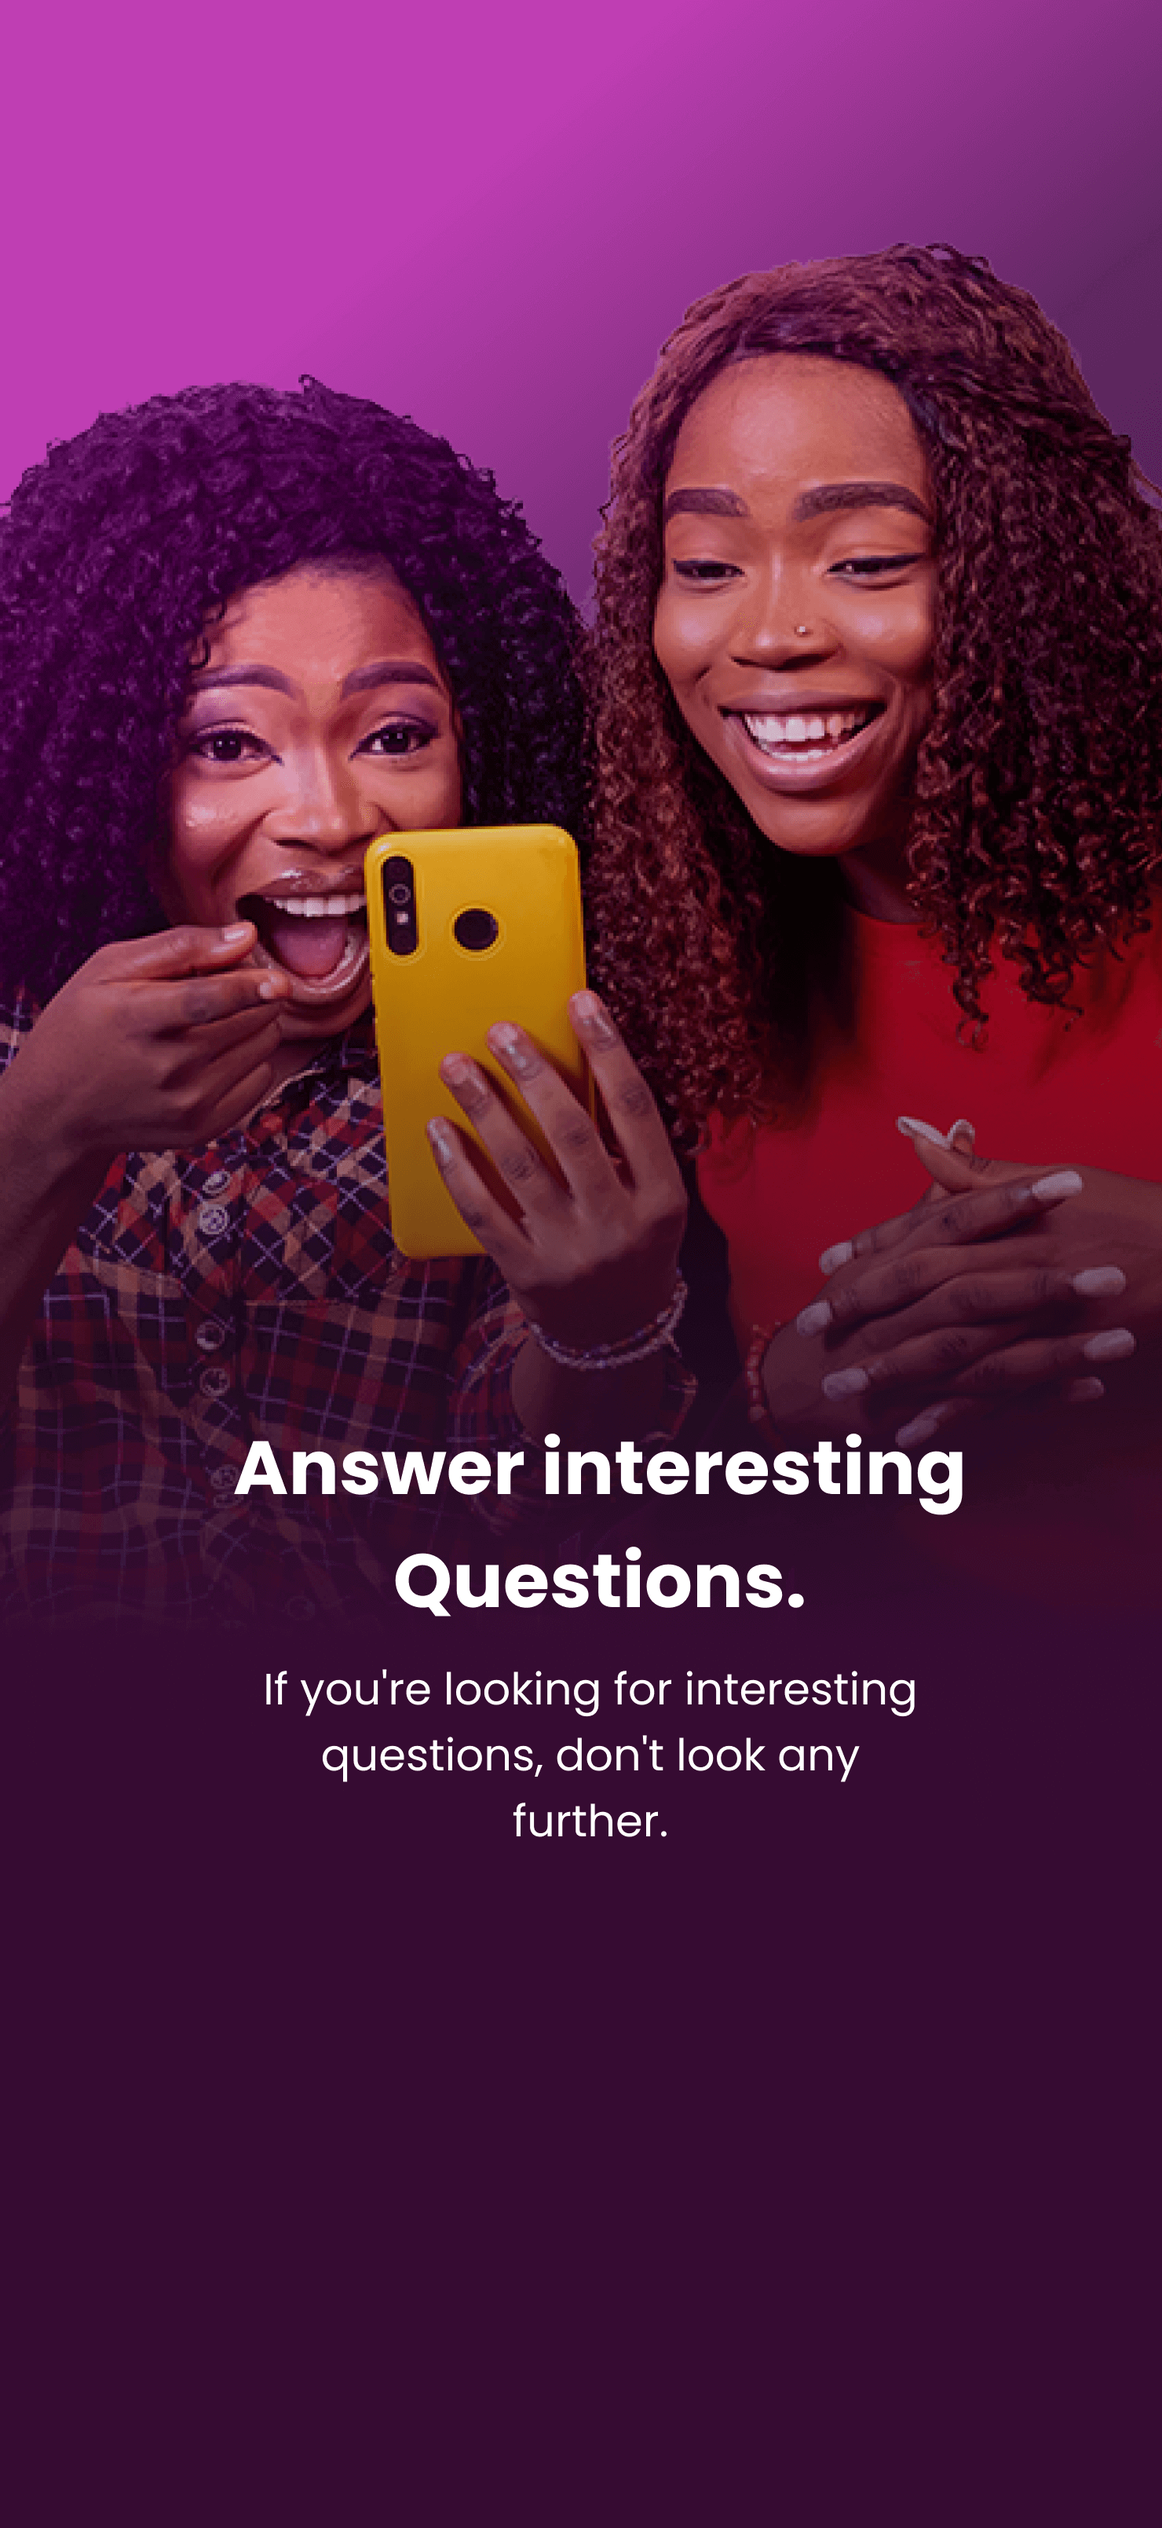
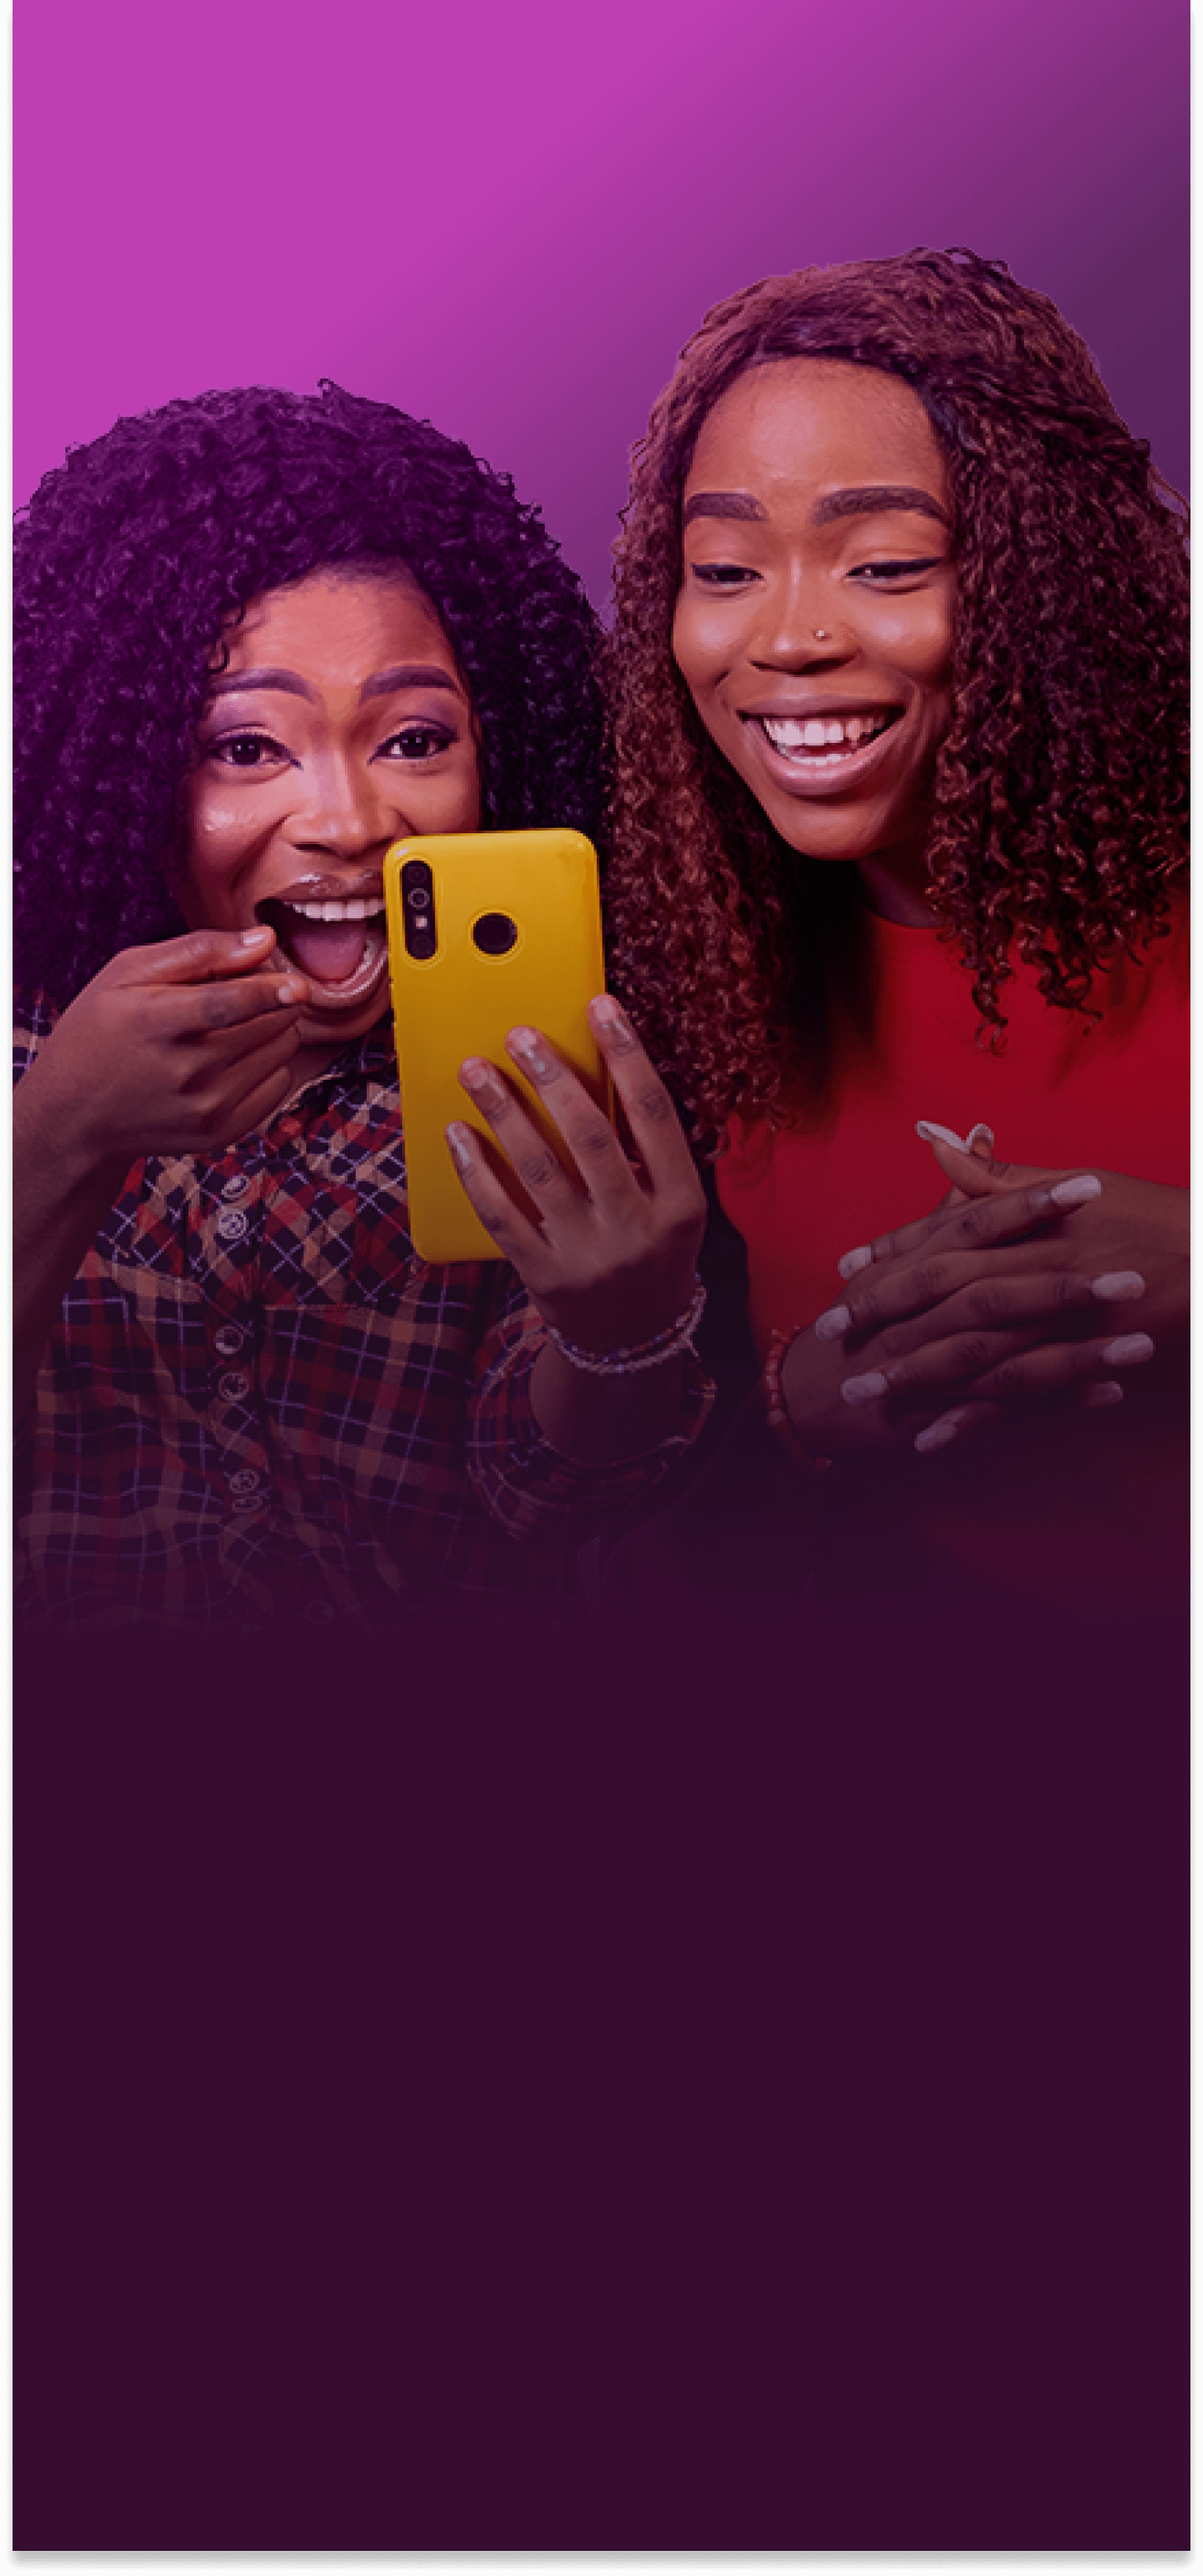
auth done

Changed region(s): [[0.0, 0.0, 1.0, 1.0], [0.2176, 0.6522, 0.2486, 0.6832]]

diff --git a/lib/screens/auth/onboarding_view.dart b/lib/screens/auth/onboarding_view.dart
@@ -51,25 +51,25 @@ class _OnboardingViewState extends State<OnboardingView> {
               child: Align(
                 alignment: Alignment.bottomCenter,
                 child: Padding(
-                  padding: EdgeInsets.only(bottom: 80.h, right: 30.h, left: 30.h),
+                  padding:
+                      EdgeInsets.only(bottom: 80.h, right: 30.h, left: 30.h),
                   child: Column(
                     mainAxisSize: MainAxisSize.min,
                     mainAxisAlignment: MainAxisAlignment.center,
                     children: [
-                      _index == 2
+                      _index == 0
                           ? Column(
                               mainAxisSize: MainAxisSize.min,
                               mainAxisAlignment: MainAxisAlignment.center,
                               children: [
-                                regularText(
-                                  'Learn More',
-                                  fontSize: 24.sp,
-                                  fontWeight: FontWeight.w700,
-                                  color: AppColors.white,
-                                ),
+                                regularText('Answer interesting\nQuestions',
+                                    fontSize: 24.sp,
+                                    fontWeight: FontWeight.w700,
+                                    color: AppColors.white,
+                                    textAlign: TextAlign.center),
                                 SizedBox(height: 20.h),
                                 regularText(
-                                  'Just like food nourishes our\nbodies, information and\ncontinued learning nourishes\nour minds',
+                                  'If you\'re looking for interesting\nquestions, don\'t look any\nfurther.',
                                   fontSize: 14.sp,
                                   textAlign: TextAlign.center,
                                   fontWeight: FontWeight.w400,
@@ -77,32 +77,85 @@ class _OnboardingViewState extends State<OnboardingView> {
                                 ),
                                 SizedBox(height: 30.h),
                                 buttonWithBorder(
-                                  'Sign up',
+                                  "Let’s Combat!",
                                   height: 60.h,
                                   onTap: () {
-                                    navigateReplacement(
-                                        context, SignupScreen());
+                                    controller.nextPage(
+                                        duration: Duration(milliseconds: 800),
+                                        curve: Curves.easeIn);
                                   },
-                                ),
-                                SizedBox(height: 20.h),
-                                buttonWithBorder(
-                                  'Sign in',
-                                  height: 60.h,
-                                  onTap: () {
-                                    navigateReplacement(context, LoginScreen());
-                                  },
-                                ),
+                                )
                               ],
                             )
-                          : buttonWithBorder(
-                              _index == 0 ? "Let’s Combat!" : 'Next',
-                              height: 60.h,
-                              onTap: () {
-                                controller.nextPage(
-                                    duration: Duration(milliseconds: 800),
-                                    curve: Curves.easeIn);
-                              },
-                            ),
+                          : _index == 1
+                              ? Column(
+                                  mainAxisSize: MainAxisSize.min,
+                                  mainAxisAlignment: MainAxisAlignment.center,
+                                  children: [
+                                    regularText('Win Prizes',
+                                        fontSize: 24.sp,
+                                        fontWeight: FontWeight.w700,
+                                        color: AppColors.white,
+                                        textAlign: TextAlign.center),
+                                    SizedBox(height: 20.h),
+                                    regularText(
+                                      'Earn real cash by answering all\nquestions correctly\n',
+                                      fontSize: 14.sp,
+                                      textAlign: TextAlign.center,
+                                      fontWeight: FontWeight.w400,
+                                      color: AppColors.white,
+                                    ),
+                                    SizedBox(height: 30.h),
+                                    buttonWithBorder(
+                                      "Let’s Combat!",
+                                      height: 60.h,
+                                      onTap: () {
+                                        controller.nextPage(
+                                            duration:
+                                                Duration(milliseconds: 800),
+                                            curve: Curves.easeIn);
+                                      },
+                                    )
+                                  ],
+                                )
+                              : Column(
+                                  mainAxisSize: MainAxisSize.min,
+                                  mainAxisAlignment: MainAxisAlignment.center,
+                                  children: [
+                                    regularText(
+                                      'Learn More',
+                                      fontSize: 24.sp,
+                                      fontWeight: FontWeight.w700,
+                                      color: AppColors.white,
+                                    ),
+                                    SizedBox(height: 20.h),
+                                    regularText(
+                                      'Just like food nourishes our\nbodies, information and\ncontinued learning nourishes\nour minds',
+                                      fontSize: 14.sp,
+                                      textAlign: TextAlign.center,
+                                      fontWeight: FontWeight.w400,
+                                      color: AppColors.white,
+                                    ),
+                                    SizedBox(height: 30.h),
+                                    buttonWithBorder(
+                                      'Sign up',
+                                      height: 60.h,
+                                      onTap: () {
+                                        navigateReplacement(
+                                            context, SignupScreen());
+                                      },
+                                    ),
+                                    SizedBox(height: 20.h),
+                                    buttonWithBorder(
+                                      'Sign in',
+                                      height: 60.h,
+                                      onTap: () {
+                                        navigateReplacement(
+                                            context, LoginScreen());
+                                      },
+                                    ),
+                                  ],
+                                ),
                     ],
                   ),
                 ),

diff --git a/lib/screens/general/home_view.dart b/lib/screens/general/home_view.dart
@@ -2,6 +2,7 @@ import 'dart:async';
 import 'dart:ui';
 import 'package:cloud_firestore/cloud_firestore.dart';
 import 'package:flutter/material.dart';
+import 'package:logger/logger.dart';
 import 'package:mms_app/app/colors.dart';
 import 'package:mms_app/app/size_config/config.dart';
 import 'package:mms_app/app/size_config/extensions.dart';
@@ -56,6 +57,7 @@ class _HomeViewState extends State<HomeView> {
         .listen((event) {
       questions.clear();
       event.docs.forEach((element) {
+        Logger().d(element.data());
         questions.add(QuestionModel.fromJson(element.data()));
         controllers.add(TextEditingController());
         //  firestore.collection('Questions').doc(element.id).delete();
@@ -164,12 +166,8 @@ class _HomeViewState extends State<HomeView> {
                                   itemBuilder: (context, index) {
                                     return item(index);
                                   }),
-                          if (questions.any((element) =>
-                              Utils.getDate.hour <
-                              (int.tryParse(element?.scheduledAt
-                                      ?.split(':')
-                                      ?.first) ??
-                                  Utils.getDate.hour)))
+                          if (questions.any(
+                              (element) => timeChecker(element.scheduledAt)))
                             Container(
                               padding: EdgeInsets.all(30.h),
                               margin: EdgeInsets.only(bottom: 20.h),
@@ -179,12 +177,14 @@ class _HomeViewState extends State<HomeView> {
                               child: Row(
                                 mainAxisAlignment: MainAxisAlignment.center,
                                 children: [
-                                  regularText(
-                                    '\nSome questions are not yet live, check back!\n',
-                                    fontSize: 15.sp,
-                                    textAlign: TextAlign.center,
-                                    color: AppColors.black,
-                                    fontWeight: FontWeight.w600,
+                                  Expanded(
+                                    child: regularText(
+                                      '\nSome questions are not yet live, check back!\n',
+                                      fontSize: 15.sp,
+                                      textAlign: TextAlign.center,
+                                      color: AppColors.black,
+                                      fontWeight: FontWeight.w600,
+                                    ),
                                   ),
                                 ],
                               ),
@@ -204,16 +204,40 @@ class _HomeViewState extends State<HomeView> {
 
   List<TextEditingController> controllers = [];
 
+  bool timeChecker(String a) {
+    if (a != null && a != 'empty') {
+      print(a);
+      int hour = int.tryParse(a.split(':').first);
+
+      int minute = int.tryParse(a.split(':')[1]);
+
+      if (hour >= Utils.getDate.hour && minute >= Utils.getDate.minute) {
+        return true;
+      } else {
+        return false;
+      }
+    } else {
+      return false;
+    }
+  }
+
   Widget item(int index) {
     //   Logger().d(TimeOfDay.now().minute);
     QuestionModel model = questions[index];
     bool answered = answers.any((element) => element.id == model.id);
-    int hour = int.tryParse(model?.scheduledAt?.split(':')?.first) ??
-        Utils.getDate.hour;
-    //  int min = int.tryParse( model.scheduledAt.split(':')[1]);
-    if (Utils.getDate.hour < hour) {
-      return SizedBox();
+    if (model.scheduledAt != null && model?.scheduledAt != 'empty') {
+      int hour = int.tryParse(model.scheduledAt.split(':').first);
+
+      int minute = int.tryParse(model.scheduledAt.split(':')[1]);
+
+      print(
+          'value of ${model.id} is : ${Utils.getDate.hour} $hour , ${Utils.getDate.minute}, $minute');
+
+      if (hour >= Utils.getDate.hour && minute >= Utils.getDate.minute) {
+        return SizedBox();
+      }
     }
+
     return Container(
       padding: EdgeInsets.all(20.h),
       margin: EdgeInsets.only(bottom: 20.h),
@@ -270,7 +294,11 @@ class _HomeViewState extends State<HomeView> {
                           'answer', (value) => controllers[index].text.trim());
                       data.putIfAbsent('name', () => AppCache.getUser.name);
                       data.update('uid', (value) => uid);
-                      data.update('last_time_won', (value) => AppCache.getUser.lastTimeWon);
+                      data.update(
+                        'last_time_won',
+                        (value) => AppCache.getUser?.lastTimeWon,
+                        ifAbsent: () => AppCache.getUser?.lastTimeWon,
+                      );
                       data.putIfAbsent('admin_answer', () => model.answer);
                       try {
                         await firestore.collection('Answers').add(data);

diff --git a/lib/screens/general/main_layout.dart b/lib/screens/general/main_layout.dart
@@ -44,7 +44,7 @@ class _MainLayoutState extends State<MainLayout> {
   Future<void> getToken() async {
     FirebaseDatabase.instance.setPersistenceEnabled(true);
     FirebaseDatabase.instance.setPersistenceCacheSizeBytes(100000000);
-    await NotificationManager.initialize();
+  //  await NotificationManager.initialize();
     if (AppCache.getNotification()) {
       String messagingToken = await NotificationManager.messagingToken();
       print(messagingToken);

diff --git a/lib/core/models/question_model.dart b/lib/core/models/question_model.dart
@@ -14,7 +14,7 @@ class QuestionModel {
     answer = json['answer'];
     id = json['id'];
     uid = json['uid'];
-    createdAt = json['created_at'] ?? json['create_at'] ;
+    createdAt = json['created_at'] ?? json['create_at'];
     category = json['category'];
     updatedAt = json['updated_at'];
     scheduledAt = json['scheduled_at'] == null ? 'empty' : json['scheduled_at'];

diff --git a/lib/core/models/login_response.dart b/lib/core/models/login_response.dart
@@ -1,7 +1,7 @@
 class UserData {
   int updatedAt;
   int createdAt;
-  String lastTimeWon;
+  int lastTimeWon;
   String email;
   String address;
   String plan;

diff --git a/android/app/src/main/kotlin/com/trivia/trivia_app/MainActivity.kt b/android/app/src/main/kotlin/com/trivia/trivia_app/MainActivity.kt
@@ -1,0 +1,6 @@
+package com.trivia.trivia_app
+
+import io.flutter.embedding.android.FlutterActivity
+
+class MainActivity: FlutterActivity() {
+}
